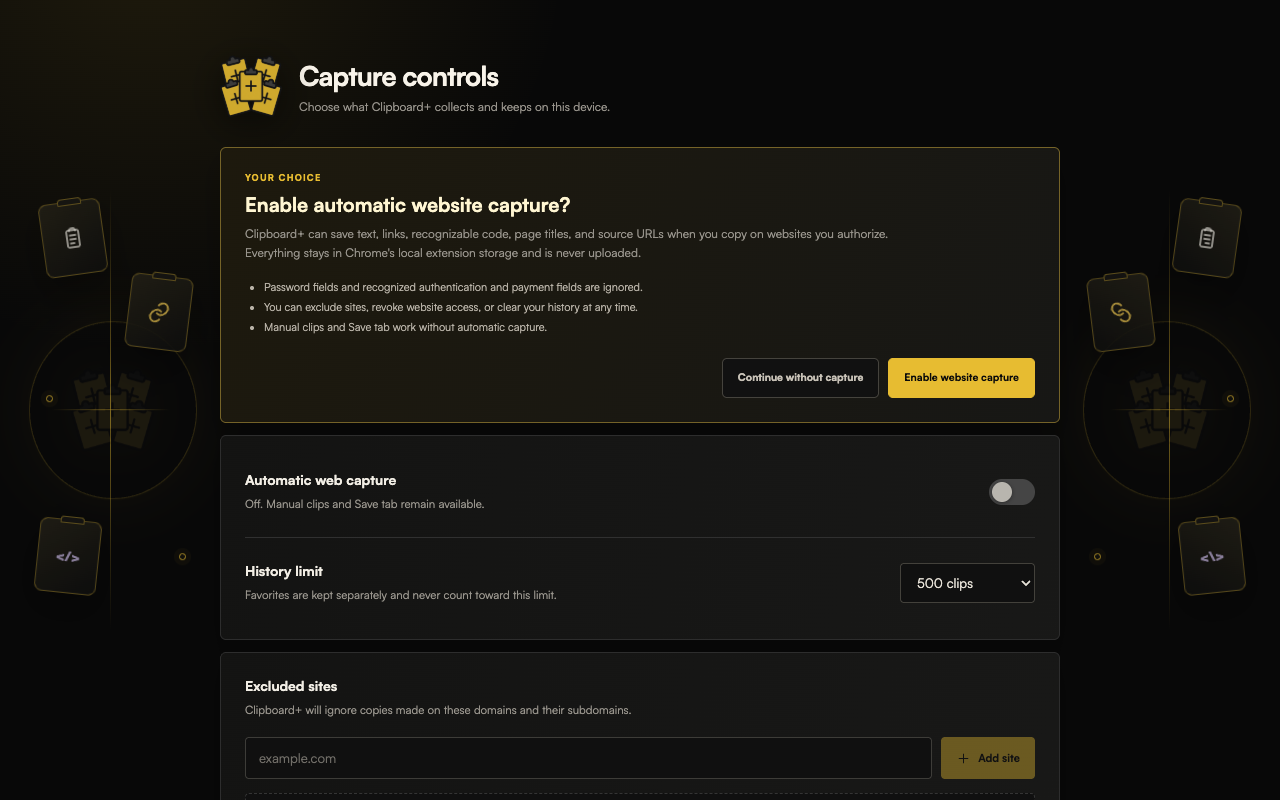
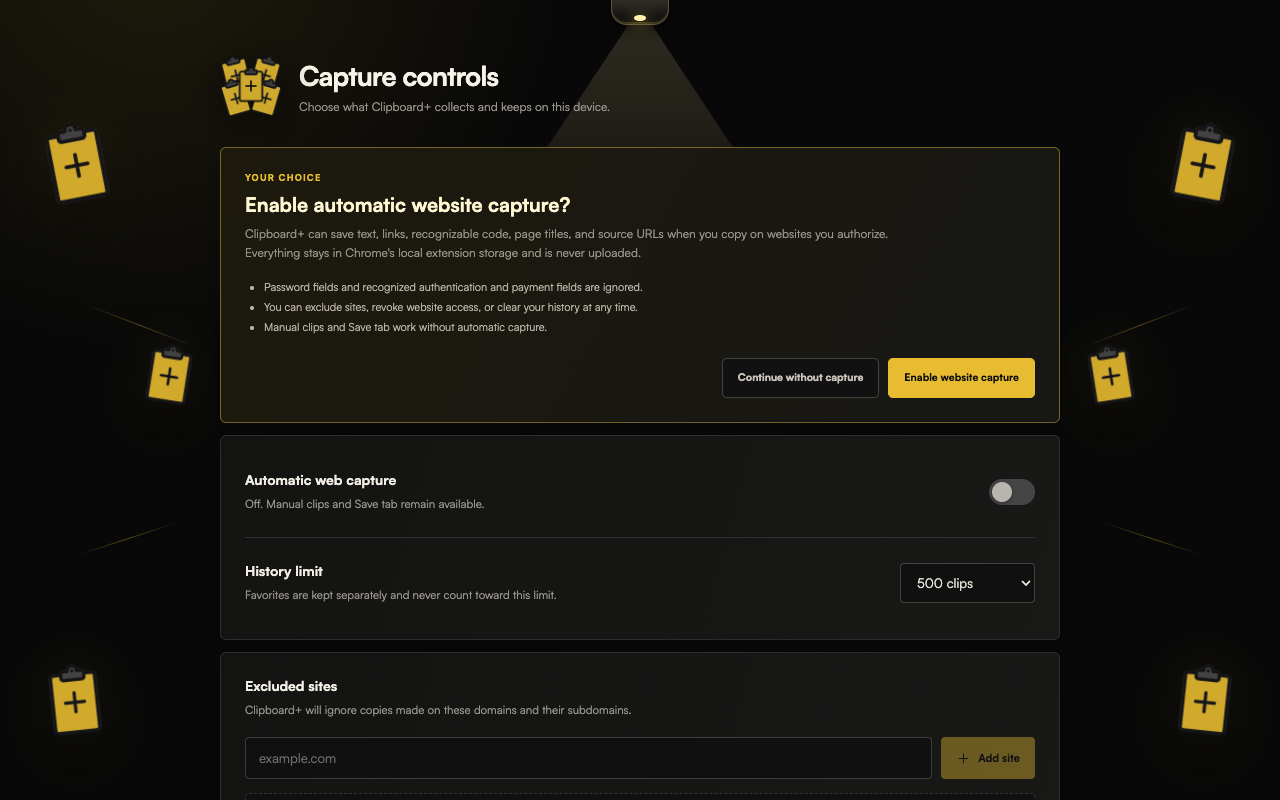
feat: add interactive spotlight controls artwork

diff --git a/src/options/options.css b/src/options/options.css
@@ -16,6 +16,8 @@
   --border: #2d2d2d;
   --surface: #171717;
   --muted: #98948c;
+  --spotlight-x: 50vw;
+  --spotlight-y: 250px;
 }
 * { box-sizing: border-box; }
 body {
@@ -30,25 +32,23 @@ body {
 button, input, select { font-family: "Satoshi", ui-sans-serif, -apple-system, BlinkMacSystemFont, "Segoe UI", sans-serif; }
 button:focus-visible, input:focus-visible, select:focus-visible { outline: 2px solid var(--gold-bright); outline-offset: 2px; }
 .options-shell { width: min(840px, calc(100% - 40px)); position: relative; margin: 0 auto; padding: 55px 0 48px; }
-.options-header, .settings-card, .error-banner { position: relative; z-index: 1; }
-.ambient-art { width: 178px; height: 510px; position: fixed; z-index: 0; top: 50%; pointer-events: none; opacity: .82; transform: translateY(-48%); }
-.ambient-left { left: max(24px, calc(50vw - 640px)); }
-.ambient-right { right: max(24px, calc(50vw - 640px)); transform: translateY(-48%) scaleX(-1); }
-.ambient-art::before, .ambient-art::after { content: ""; position: absolute; background: linear-gradient(180deg, transparent, rgba(231, 188, 49, .62), transparent); }
-.ambient-art::before { width: 1px; height: 440px; left: 86px; top: 35px; }
-.ambient-art::after { width: 118px; height: 1px; left: 28px; top: 254px; background: linear-gradient(90deg, transparent, rgba(231, 188, 49, .52), transparent); }
-.ambient-orbit { position: absolute; inset: 166px 5px 166px; border: 1px solid rgba(231, 188, 49, .2); border-radius: 50%; box-shadow: 0 0 55px rgba(231, 188, 49, .06); }
-.ambient-art > img { width: 83px; height: 83px; position: absolute; left: 47px; top: 213px; object-fit: contain; opacity: .13; filter: saturate(.85) drop-shadow(0 0 20px rgba(231, 188, 49, .22)); }
-.ambient-card { width: 62px; height: 74px; position: absolute; display: grid; place-items: center; border: 1px solid rgba(231, 188, 49, .35); border-radius: 8px; color: rgba(244, 240, 231, .7); background: linear-gradient(145deg, rgba(38, 35, 24, .88), rgba(15, 15, 14, .88)); box-shadow: 0 16px 34px rgba(0, 0, 0, .35), inset 0 0 0 1px rgba(255, 255, 255, .018); animation: ambient-float 7s ease-in-out infinite; }
-.ambient-card::after { content: ""; width: 22px; height: 5px; position: absolute; left: 19px; top: -4px; border: 1px solid rgba(231, 188, 49, .42); border-radius: 3px 3px 1px 1px; background: #171613; }
-.ambient-card svg { width: 24px; height: 24px; }
-.ambient-card-text { left: 18px; top: 46px; transform: rotate(-8deg); }
-.ambient-card-link { right: 12px; top: 126px; color: rgba(242, 202, 80, .82); transform: rotate(7deg); animation-delay: -2.2s; }
-.ambient-card-code { left: 13px; bottom: 65px; color: rgba(210, 193, 240, .76); font-size: 14px; font-weight: 800; transform: rotate(6deg); animation-delay: -4.4s; }
-.ambient-node { width: 7px; height: 7px; position: absolute; border: 1px solid rgba(231, 188, 49, .65); border-radius: 50%; background: #11100d; box-shadow: 0 0 0 5px rgba(231, 188, 49, .045); }
-.ambient-node-one { right: 16px; bottom: 105px; }
-.ambient-node-two { left: 22px; top: 240px; }
-@keyframes ambient-float { 0%, 100% { translate: 0 0; } 50% { translate: 0 -8px; } }
+.options-header, .settings-card, .error-banner { position: relative; z-index: 2; }
+.spotlight-stage { position: fixed; z-index: 0; inset: 0; overflow: hidden; pointer-events: none; }
+.spotlight-fixture { width: 58px; height: 30px; position: fixed; z-index: 2; left: calc(var(--spotlight-x) - 29px); top: -5px; border: 1px solid #5d553a; border-radius: 0 0 16px 16px; background: linear-gradient(180deg, #37342b, #121211 75%); box-shadow: 0 4px 18px rgba(0, 0, 0, .8), inset 0 -2px 0 rgba(242, 202, 80, .18); transition: left .18s ease-out; }
+.spotlight-fixture::after { content: ""; width: 12px; height: 6px; position: absolute; left: 22px; bottom: 3px; border-radius: 50%; background: #fff2ac; box-shadow: 0 3px 15px rgba(242, 202, 80, .9); }
+.spotlight-beam { width: 520px; height: calc(var(--spotlight-y) + 135px); position: fixed; left: calc(var(--spotlight-x) - 260px); top: 15px; opacity: .32; background: linear-gradient(180deg, rgba(255, 238, 173, .48), rgba(231, 188, 49, .13) 65%, transparent); clip-path: polygon(49% 0, 51% 0, 100% 100%, 0 100%); filter: blur(2px); transition: left .18s ease-out, height .18s ease-out; }
+.spotlight-pool { width: 500px; height: 210px; position: fixed; left: calc(var(--spotlight-x) - 250px); top: calc(var(--spotlight-y) - 105px); border-radius: 50%; opacity: .25; background: radial-gradient(ellipse, rgba(255, 235, 151, .42), rgba(231, 188, 49, .09) 42%, transparent 72%); filter: blur(16px); transition: left .18s ease-out, top .18s ease-out; }
+.floating-clipboards { width: 205px; height: 680px; position: fixed; z-index: 1; top: 50%; pointer-events: none; transform: translateY(-47%); }
+.floating-left { left: max(10px, calc(50vw - 680px)); }
+.floating-right { right: max(10px, calc(50vw - 680px)); transform: translateY(-47%) scaleX(-1); }
+.floating-clipboard { position: absolute; object-fit: contain; filter: drop-shadow(0 18px 24px rgba(0, 0, 0, .55)) drop-shadow(0 0 18px rgba(231, 188, 49, .08)); animation: clipboard-drift 7.5s ease-in-out infinite; }
+.clipboard-one { width: 138px; left: -2px; top: 16px; rotate: -11deg; }
+.clipboard-two { width: 102px; right: 0; top: 255px; rotate: 9deg; animation-delay: -2.7s; }
+.clipboard-three { width: 122px; left: 8px; bottom: 2px; rotate: -6deg; animation-delay: -5.1s; }
+.clipboard-trail { height: 1px; position: absolute; background: linear-gradient(90deg, transparent, rgba(231, 188, 49, .35), transparent); transform-origin: left center; }
+.trail-one { width: 120px; left: 74px; top: 223px; rotate: 21deg; }
+.trail-two { width: 105px; left: 68px; bottom: 205px; rotate: -18deg; }
+@keyframes clipboard-drift { 0%, 100% { translate: 0 0; } 35% { translate: 5px -10px; } 70% { translate: -4px 5px; } }
 .options-header { display: flex; align-items: center; gap: 17px; margin-bottom: 30px; }
 .options-logo { width: 62px; height: 62px; flex: 0 0 62px; object-fit: contain; filter: drop-shadow(0 8px 18px rgba(0, 0, 0, .55)); }
 .options-header h1 { margin: 0 0 5px; color: #f8f3e9; font-size: 27px; letter-spacing: -.7px; }
@@ -119,5 +119,6 @@ select { min-width: 135px; height: 40px; padding: 0 31px 0 12px; border: 1px sol
   .site-form { flex-direction: column; }
   .site-form button { justify-content: center; }
 }
-@media (max-width: 1180px) { .ambient-art { display: none; } }
-@media (prefers-reduced-motion: reduce) { *, *::before, *::after { transition-duration: .01ms !important; } .ambient-card { animation: none; } }
+@media (max-width: 1220px) { .floating-clipboards { display: none; } }
+@media (max-width: 760px) { .spotlight-beam, .spotlight-pool { opacity: .13; } }
+@media (prefers-reduced-motion: reduce) { *, *::before, *::after { transition-duration: .01ms !important; } .floating-clipboard { animation: none; } }

diff --git a/src/options/Options.tsx b/src/options/Options.tsx
@@ -1,5 +1,5 @@
 import { FormEvent, useEffect, useState } from 'react';
-import { CheckIcon, ClipboardIcon, LinkIcon, PlusIcon, TrashIcon, XIcon } from '../components/Icons';
+import { CheckIcon, PlusIcon, TrashIcon, XIcon } from '../components/Icons';
 import { CAPTURE_CONSENT_VERSION, normalizeHostname } from '../lib/clips';
 import { COMPANION_ENABLED } from '../lib/build';
 import { removeWebsiteAccess, requestWebsiteAccess } from '../lib/capturePermissions';
@@ -21,6 +21,24 @@ export function Options() {
       setCompanionOnline(Boolean(response.companion?.available));
       setWebsiteAccess(Boolean(response.permissions?.websiteAccess));
     }).catch((reason: Error) => setError(reason.message));
+  }, []);
+
+  useEffect(() => {
+    const root = document.documentElement;
+    const reducedMotion = window.matchMedia?.('(prefers-reduced-motion: reduce)');
+
+    const moveSpotlight = (event: PointerEvent) => {
+      if (reducedMotion?.matches || event.pointerType === 'touch') return;
+      root.style.setProperty('--spotlight-x', `${event.clientX}px`);
+      root.style.setProperty('--spotlight-y', `${Math.max(170, Math.min(event.clientY, window.innerHeight - 90))}px`);
+    };
+
+    window.addEventListener('pointermove', moveSpotlight, { passive: true });
+    return () => {
+      window.removeEventListener('pointermove', moveSpotlight);
+      root.style.removeProperty('--spotlight-x');
+      root.style.removeProperty('--spotlight-y');
+    };
   }, []);
 
   const update = async (changes: Partial<Settings>) => {
@@ -100,23 +118,24 @@ export function Options() {
 
   return (
     <main className="options-shell">
-      <aside className="ambient-art ambient-left" aria-hidden="true">
-        <span className="ambient-orbit" />
-        <img src="/icons/clipboard-plus-logo.png" alt="" />
-        <span className="ambient-card ambient-card-text"><ClipboardIcon /></span>
-        <span className="ambient-card ambient-card-link"><LinkIcon /></span>
-        <span className="ambient-card ambient-card-code">&lt;/&gt;</span>
-        <span className="ambient-node ambient-node-one" />
-        <span className="ambient-node ambient-node-two" />
+      <div className="spotlight-stage" aria-hidden="true">
+        <span className="spotlight-fixture" />
+        <span className="spotlight-beam" />
+        <span className="spotlight-pool" />
+      </div>
+      <aside className="floating-clipboards floating-left" aria-hidden="true">
+        <img className="floating-clipboard clipboard-one" src="/assets/clipboard-plus-single.png" alt="" />
+        <img className="floating-clipboard clipboard-two" src="/assets/clipboard-plus-single.png" alt="" />
+        <img className="floating-clipboard clipboard-three" src="/assets/clipboard-plus-single.png" alt="" />
+        <span className="clipboard-trail trail-one" />
+        <span className="clipboard-trail trail-two" />
       </aside>
-      <aside className="ambient-art ambient-right" aria-hidden="true">
-        <span className="ambient-orbit" />
-        <img src="/icons/clipboard-plus-logo.png" alt="" />
-        <span className="ambient-card ambient-card-text"><ClipboardIcon /></span>
-        <span className="ambient-card ambient-card-link"><LinkIcon /></span>
-        <span className="ambient-card ambient-card-code">&lt;/&gt;</span>
-        <span className="ambient-node ambient-node-one" />
-        <span className="ambient-node ambient-node-two" />
+      <aside className="floating-clipboards floating-right" aria-hidden="true">
+        <img className="floating-clipboard clipboard-one" src="/assets/clipboard-plus-single.png" alt="" />
+        <img className="floating-clipboard clipboard-two" src="/assets/clipboard-plus-single.png" alt="" />
+        <img className="floating-clipboard clipboard-three" src="/assets/clipboard-plus-single.png" alt="" />
+        <span className="clipboard-trail trail-one" />
+        <span className="clipboard-trail trail-two" />
       </aside>
       <header className="options-header">
         <img className="options-logo" src="/icons/clipboard-plus-logo.png" alt="Clipboard+ logo" />

diff --git a/src/options/Options.test.tsx b/src/options/Options.test.tsx
@@ -1,4 +1,4 @@
-import { render, screen } from '@testing-library/react';
+import { fireEvent, render, screen } from '@testing-library/react';
 import userEvent from '@testing-library/user-event';
 import { beforeEach, describe, expect, it, vi } from 'vitest';
 import { sendMessage } from '../lib/runtime';
@@ -76,5 +76,21 @@ describe('Options', () => {
       type: 'UPDATE_SETTINGS',
       payload: expect.objectContaining({ autoCapture: true }),
     }));
+  });
+
+  it('moves the top spotlight and renders the supplied side artwork', async () => {
+    const { container } = render(<Options />);
+    await screen.findByText('Automatic web capture');
+
+    expect(container.querySelectorAll('img[src="/assets/clipboard-plus-single.png"]')).toHaveLength(6);
+    const pointerMove = new Event('pointermove');
+    Object.defineProperties(pointerMove, {
+      clientX: { value: 320 },
+      clientY: { value: 480 },
+      pointerType: { value: 'mouse' },
+    });
+    fireEvent(window, pointerMove);
+    expect(document.documentElement.style.getPropertyValue('--spotlight-x')).toBe('320px');
+    expect(document.documentElement.style.getPropertyValue('--spotlight-y')).toBe('480px');
   });
 });

diff --git a/README.md b/README.md
@@ -30,7 +30,7 @@ Final releases update the extension, package, native bundle, README, and changel
 
 ## macOS companion
 
-The companion is currently a developer preview and is not included or advertised as available in the v1.6.2 Chrome Web Store package. It remains part of the permanent free v1.6 feature set and will return to the public interface after Apple signing, notarization, and consumer installation are complete.
+The companion is currently a developer preview and is not included or advertised as available in the v1.6.3 Chrome Web Store package. It remains part of the permanent free v1.6 feature set and will return to the public interface after Apple signing, notarization, and consumer installation are complete.
 
 Install and start universal capture with:
 
@@ -91,4 +91,4 @@ Developer-account registration, two-step verification, trader classification, an
 
 ## Monetization boundary
 
-Everything included through v1.6 remains free. Bug fixes, security updates, privacy work, and browser compatibility are not paid upgrades. A future Pro launch is gated on public demand and is planned around end-to-end encrypted cross-device sync, folders or sessions, backup and restore, and device management. The target launch price is $3.99 monthly or $29.99 yearly with a 14-day no-card trial; no billing or account code exists in v1.6.2.
+Everything included through v1.6 remains free. Bug fixes, security updates, privacy work, and browser compatibility are not paid upgrades. A future Pro launch is gated on public demand and is planned around end-to-end encrypted cross-device sync, folders or sessions, backup and restore, and device management. The target launch price is $3.99 monthly or $29.99 yearly with a 14-day no-card trial; no billing or account code exists in v1.6.3.

diff --git a/CHANGELOG.md b/CHANGELOG.md
@@ -2,6 +2,13 @@
 
 Clipboard+'s Git history was reconstructed from local development milestones after versions 1.0.0 through 1.4.2 had already been built. Those tags preserve the rollout order; their publication timestamps are intentionally not backdated. Releases from 1.5.0 onward follow the live project history.
 
+## 1.6.3
+
+- Add an interactive top-mounted spotlight that follows pointer movement across the Capture Controls page.
+- Replace the abstract side cards with the supplied individual Clipboard+ artwork, arranged as independently floating objects.
+- Preserve a quiet center workspace, hide the side objects when space is limited, and disable their motion when reduced motion is requested.
+- Add regression coverage for spotlight movement and the supplied artwork.
+
 ## 1.6.2
 
 - Frame the Capture Controls page with responsive Clipboard+-themed side artwork on wide displays.

diff --git a/docs/review-instructions.md b/docs/review-instructions.md
@@ -8,4 +8,4 @@
 6. Turn Automatic web capture off. Confirm Chrome removes the optional website permission and subsequent webpage copies are not saved.
 7. Use Clear history and Clear all data to verify local deletion.
 
-The v1.6.2 store package has no account, backend, analytics, advertisements, native messaging, remote executable code, or off-device clipboard processing.
+The v1.6.3 store package has no account, backend, analytics, advertisements, native messaging, remote executable code, or off-device clipboard processing.

diff --git a/docs/store-listing.md b/docs/store-listing.md
@@ -21,7 +21,7 @@ Everything included through v1.6 is a permanent free core. Future paid services,
 - Category: Productivity
 - Primary language: English
 - Mature content: No
-- Contains paid functionality: No for v1.6.2
+- Contains paid functionality: No for v1.6.3
 - Initial visibility: Unlisted
 
 ## URLs
